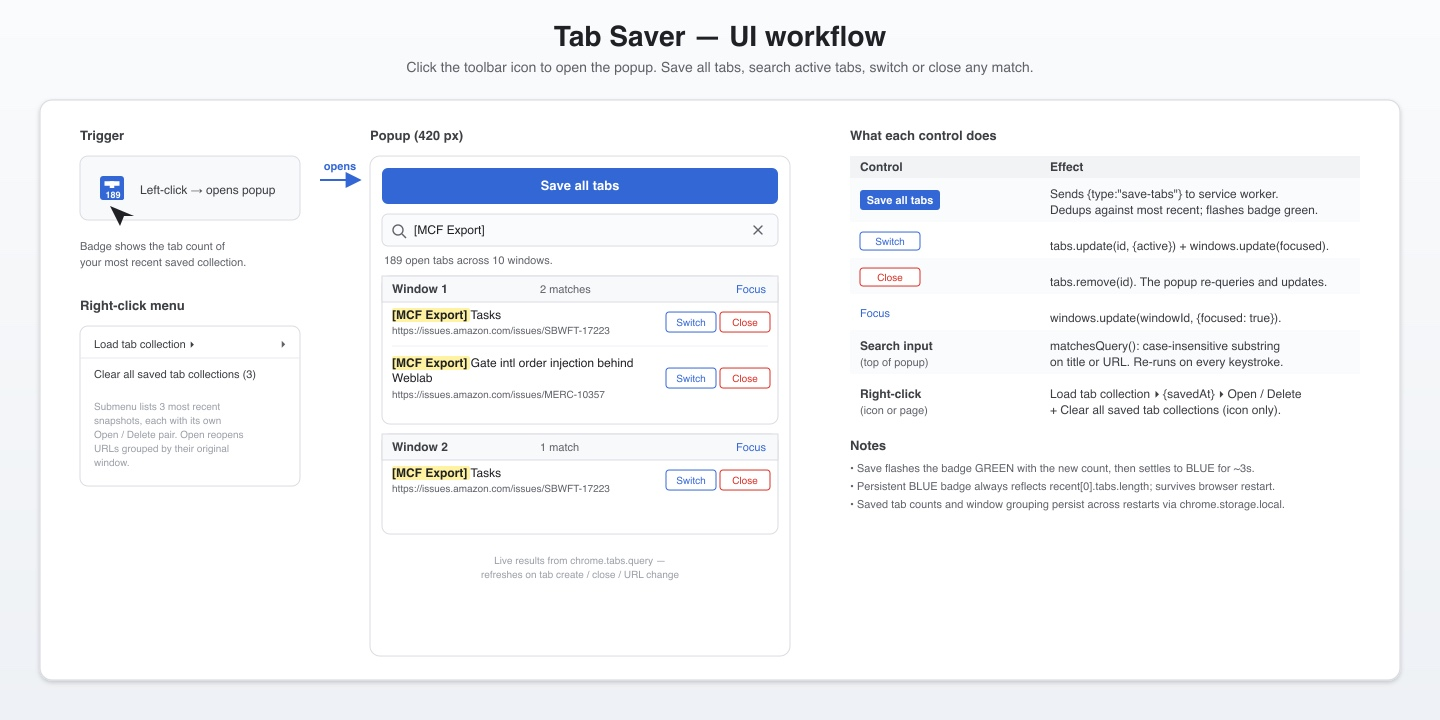
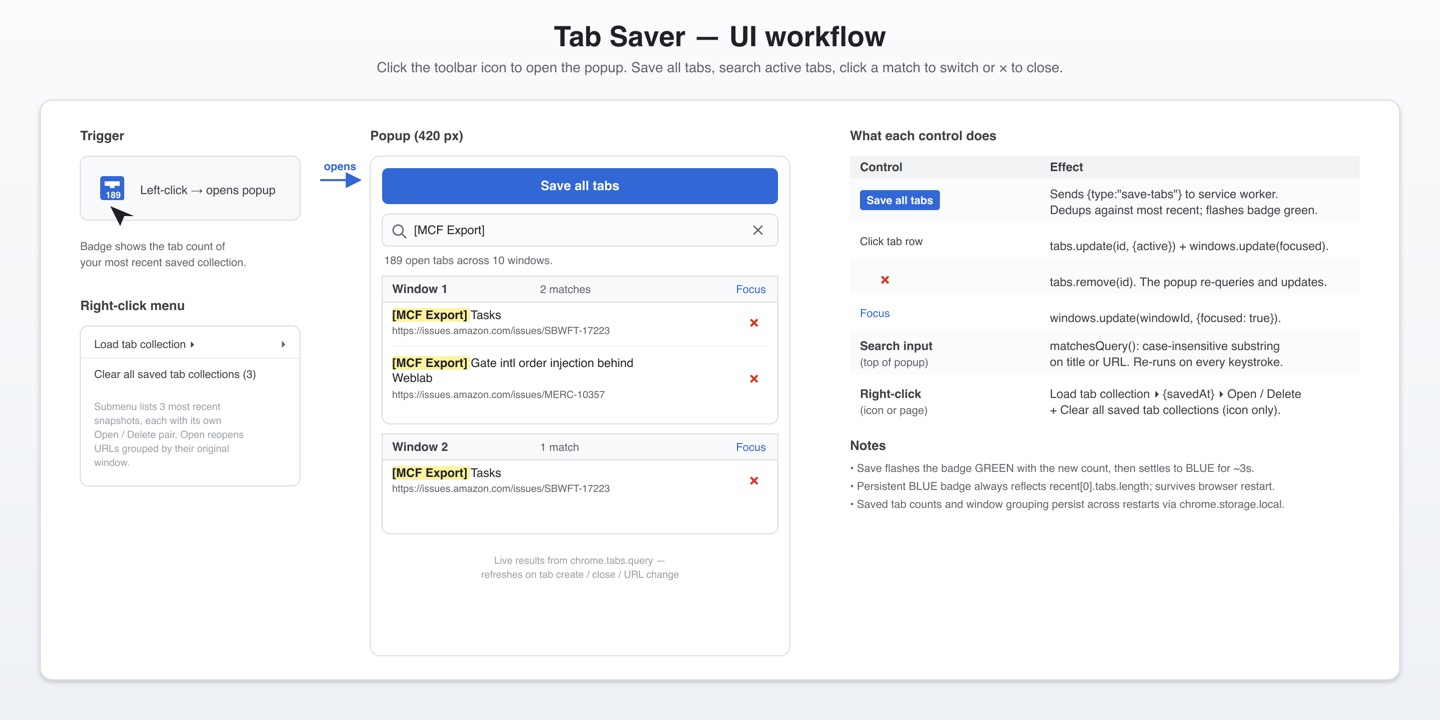
fix readme and tab UI

diff --git a/src/popup.ts b/src/popup.ts
@@ -70,27 +70,31 @@ function render(query: string): void {
     groups.set(t.windowId, list);
   }
 
-  const list = document.createElement("div");
-  list.className = "list";
+  const frag = document.createDocumentFragment();
   let i = 1;
   for (const [windowId, groupHits] of groups) {
-    list.appendChild(renderDivider(`Window ${i++}`, windowId, groupHits.length));
-    for (const t of groupHits) {
-      list.appendChild(renderRow(t, q));
-    }
+    frag.appendChild(renderGroup(`Window ${i++}`, windowId, groupHits, q));
   }
-  results.replaceChildren(list);
+  results.replaceChildren(frag);
 }
 
-function renderDivider(label: string, windowId: number, count: number): HTMLElement {
-  const divider = document.createElement("div");
-  divider.className = "divider";
-  divider.innerHTML = `<span class="when">${escapeHtml(label)}</span><span class="meta">${count} match${count === 1 ? "" : "es"}</span>`;
+function renderGroup(label: string, windowId: number, hits: chrome.tabs.Tab[], q: string): HTMLElement {
+  const group = document.createElement("div");
+  group.className = "group";
+
+  const header = document.createElement("div");
+  header.className = "group-header";
+  header.innerHTML = `<span class="when">${escapeHtml(label)}</span><span class="meta">${hits.length} match${hits.length === 1 ? "" : "es"}</span>`;
   const focus = document.createElement("button");
   focus.textContent = "Focus";
   focus.addEventListener("click", () => chrome.windows.update(windowId, { focused: true }));
-  divider.appendChild(focus);
-  return divider;
+  header.appendChild(focus);
+  group.appendChild(header);
+
+  for (const t of hits) {
+    group.appendChild(renderRow(t, q));
+  }
+  return group;
 }
 
 function renderRow(tab: chrome.tabs.Tab, q: string): HTMLElement {

diff --git a/popup.html b/popup.html
@@ -60,26 +60,23 @@
         flex: 1; min-height: 0;
         overflow-y: auto;
         padding: 8px 12px 12px;
+        display: flex; flex-direction: column; gap: 8px;
       }
-      .list {
+      .group {
         background: var(--panel);
         border: 1px solid var(--border);
         border-radius: 8px;
-        overflow: hidden;
       }
-      .divider {
+      .group-header {
         display: flex; align-items: center; justify-content: space-between; gap: 8px;
         padding: 6px 10px;
         background: #f8f9fa;
-        border-top: 1px solid var(--border);
         border-bottom: 1px solid var(--border);
         font-size: 12px;
-        position: sticky; top: 0; z-index: 1;
       }
-      .divider:first-child { border-top: 0; }
-      .divider .when { font-weight: 600; }
-      .divider .meta { color: var(--muted); }
-      .divider button {
+      .group-header .when { font-weight: 600; }
+      .group-header .meta { color: var(--muted); }
+      .group-header button {
         background: var(--accent-soft); color: var(--accent);
         border: 0; border-radius: 4px; padding: 3px 8px;
         font: inherit; font-size: 11px; cursor: pointer;
@@ -91,6 +88,7 @@
         align-items: center;
         cursor: pointer;
       }
+      .group-header + .row { border-top: 0; }
       .row:hover { background: var(--row-hover); }
       .row > div:first-child { min-width: 0; }
       .title { font-weight: 500; font-size: 12px; white-space: nowrap; overflow: hidden; text-overflow: ellipsis; }

diff --git a/README.md b/README.md
@@ -1,12 +1,12 @@
 # Tab Saver
 
-Chrome extension (Manifest V3). Click the toolbar icon to open a popup that lets you save every open tab across every Chrome window, search your currently open tabs (Switch / Close), or jump to the right-click "Load tab collection" submenu to reopen a saved snapshot.
+Chrome extension (Manifest V3). Click the toolbar icon to open a popup that lets you save every open tab across every Chrome window, search your currently open tabs (click a result to switch, or the **×** to close it), or jump to the right-click "Load tab collection" submenu to reopen a saved snapshot.
 
 Sources are in `src/` (`background.ts`, `popup.ts`, helpers in `lib.ts`); they compile to `dist/*.js`, which is what Chrome actually loads. There's no bundler — just `tsc`.
 
-![Tab Saver UI workflow: toolbar icon opens a popup with Save all tabs, active-tab search, Switch / Close per result, and a control reference](assets/ui-workflows.jpg)
+![Tab Saver UI workflow: toolbar icon opens a popup with Save all tabs, active-tab search, click-to-switch results with a × close per row, and a control reference](assets/ui-workflows.jpg)
 
-> The diagram is a single-panel walk-through of the current popup: how the toolbar icon opens it, what the Save button and search input do, what Switch / Close / Focus call into the Chrome API, and how the right-click menu still surfaces saved collections. Source SVG lives at `assets/ui-workflows.svg`.
+> The diagram is a single-panel walk-through of the current popup: how the toolbar icon opens it, what the Save button and search input do, how clicking a result row switches to that tab while the **×** / Focus controls call into the Chrome API, and how the right-click menu still surfaces saved collections. Source SVG lives at `assets/ui-workflows.svg`.
 
 ## Features
 
@@ -14,7 +14,7 @@ Sources are in `src/` (`background.ts`, `popup.ts`, helpers in `lib.ts`); they c
 - **Persistent badge with the latest count.** A blue badge on the toolbar icon shows the number of tabs in your **most recent** saved collection. It survives browser restarts and updates whenever you save, delete, or clear. Right after a save the badge briefly flashes **green** for 3 seconds, then settles back to blue.
 - **Skip duplicate saves.** If your tab list (URLs and order) is identical to the most recent saved collection, **Save all tabs** is a no-op — the button shows "Already saved", no new entry is added, and no notification fires. Repeated saves won't pollute history.
 - **Right-click to manage a collection.** The "Load tab collection" submenu lists your **3 most recent** snapshots (most recent first), each labeled with its save timestamp and tab count. Each entry expands into an **Open** / **Delete** submenu — Open reopens the URLs as new windows (**preserving the original multi-window grouping**, so a save that spanned three windows reopens as three windows); Delete removes just that entry from storage.
-- **Search active tabs from the popup.** The same toolbar popup includes a search input that filters your **currently open** tabs by title or URL (case-insensitive substring). Results group by Chrome window and offer **Switch** (focus that tab + window) or **Close** (close that tab) per result. Useful when you have dozens of tabs across multiple windows and need to jump to a specific one without scanning visually.
+- **Search active tabs from the popup.** The same toolbar popup includes a search input that filters your **currently open** tabs by title or URL (case-insensitive substring). Results are grouped into one boxed card per Chrome window (each with a **Focus** button in its header). **Click a result row** to switch to that tab and focus its window, or click the red **×** to close the tab in place. Useful when you have dozens of tabs across multiple windows and need to jump to a specific one without scanning visually.
 - **One-click clear.** Right-click the extension **icon** → "Clear all saved tab collections (N)" wipes every saved collection and clears the badge. The menu item is disabled when there's nothing to clear.
 - **Storage caps.** Up to **1000 collections** are kept, and the entire `recent` array is trimmed (oldest first) to stay under **~1 MiB** when serialized. The most recent save is always kept, even if it would push you over the limit.
 - **Visible storage location.** The post-save notification tells you that data lives in `chrome.storage.local` (browser-internal, not a regular file) and includes the on-disk path Chrome uses on macOS. Useful when you're wondering "where did that go?"
@@ -88,7 +88,7 @@ After every build, click the circular reload icon on the extension's card at `ch
 ## Usage
 
 - **Save** — click the toolbar icon to open the popup, then click **Save all tabs**. Every tab in every Chrome window is captured into a single collection. The toolbar badge flashes green for 3 seconds with the new collection's tab count, then settles back to blue. A desktop notification confirms the save and points to where the data lives (`chrome.storage.local`, browser-internal — not a regular file). If the URL list (in order) is identical to your most recent save, the button shows "Already saved" and nothing new is recorded.
-- **Search active tabs** — the popup's search input filters your currently open tabs by title or URL. Results group by window. **Switch** focuses that tab in its window; **Close** closes the tab.
+- **Search active tabs** — the popup's search input filters your currently open tabs by title or URL. Results are grouped into one boxed card per Chrome window. Click a result row to switch to that tab in its window; click the red **×** to close the tab.
 - **Reopen** — right-click anywhere on a page (or on the extension icon) → **Load tab collection** → pick a snapshot → **Open**. URLs are reopened grouped by their original window, so a multi-window save round-trips as multiple windows.
 - **Delete one entry** — same path: **Load tab collection** → pick a snapshot → **Delete**. Removes only that entry; the badge updates to the new most-recent collection's count (or clears if nothing's left).
 - **Clear all** — right-click the extension **icon** (action menu only) → **Clear all saved tab collections (N)**. One click wipes every saved collection and clears the badge.
@@ -103,7 +103,7 @@ tab-saver/
 ├── popup.html                 ← Toolbar popup (Save button + active-tab search)
 ├── src/
 │   ├── background.ts          ← Service-worker entry: chrome.* listeners, menu rebuild, badge, save handler
-│   ├── popup.ts               ← Popup UI (renders open tabs, filters, switch/close)
+│   ├── popup.ts               ← Popup UI (renders open tabs, filters, click-to-switch / × close)
 │   ├── lib.ts                 ← Pure helpers (sameUrls, trim, nextRecent, matchesQuery, …)
 │   └── __tests__/lib.spec.ts  ← Vitest tests for lib.ts
 ├── dist/                      ← Compiled output. Loaded by Chrome. Don't edit by hand.
@@ -132,7 +132,7 @@ tab-saver/
 
 - **Pure logic** (decision functions, predicates, data transforms) → `src/lib.ts`. Add a test in `src/__tests__/lib.spec.ts` next to it.
 - **Service-worker / Chrome API wiring** (event listeners, badge/notification side effects, context-menu rebuilds, message handlers) → `src/background.ts`. Keep listeners thin; defer to helpers in `lib.ts` for any non-trivial decision.
-- **Popup UI** (DOM rendering, search input, tab actions like Switch/Close, save button) → `src/popup.ts`. The popup talks to the service worker via `chrome.runtime.sendMessage` for anything that touches storage (e.g., `{ type: "save-tabs" }`).
+- **Popup UI** (DOM rendering, search input, tab actions like click-to-switch and the × close button, save button) → `src/popup.ts`. The popup talks to the service worker via `chrome.runtime.sendMessage` for anything that touches storage (e.g., `{ type: "save-tabs" }`).
 
 This split is intentional: `lib.ts` is testable without mocking `chrome.*`, `background.ts` stays small enough to read top-to-bottom, and `popup.ts` owns nothing that needs to survive the popup closing.
 
@@ -161,4 +161,4 @@ Listener-level tests (mocking `chrome.*`) aren't set up. The bulk of decision lo
 1. `npm run build` (or have `npm run watch` running).
 2. `npm test` — make sure helpers still pass.
 3. Click reload on the extension's `chrome://extensions` card.
-4. Open the popup and the service-worker DevTools, and exercise the change. Save (button), search-and-Switch, search-and-Close, reopen, delete-one, and clear-all all hit different code paths; the badge should stay in sync with `recent[0]`. To debug `popup.ts`, right-click inside the open popup → **Inspect** opens DevTools attached to the popup page (separate from the service worker).
+4. Open the popup and the service-worker DevTools, and exercise the change. Save (button), search-and-click-to-switch, search-and-× -close, reopen, delete-one, and clear-all all hit different code paths; the badge should stay in sync with `recent[0]`. To debug `popup.ts`, right-click inside the open popup → **Inspect** opens DevTools attached to the popup page (separate from the service worker).